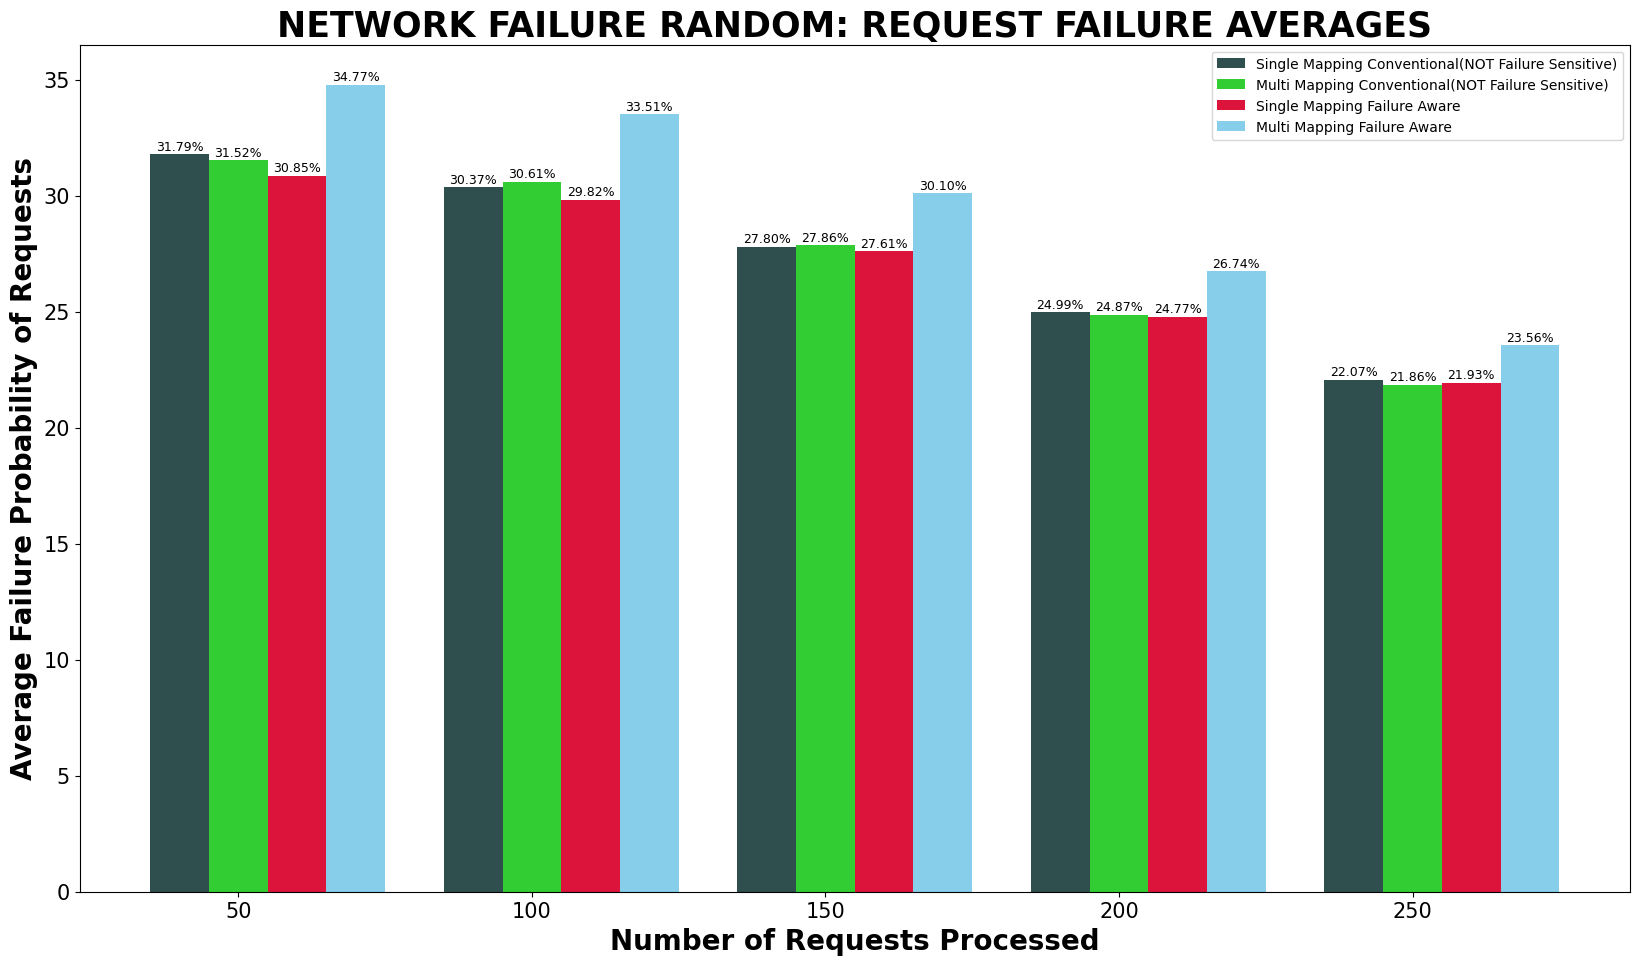
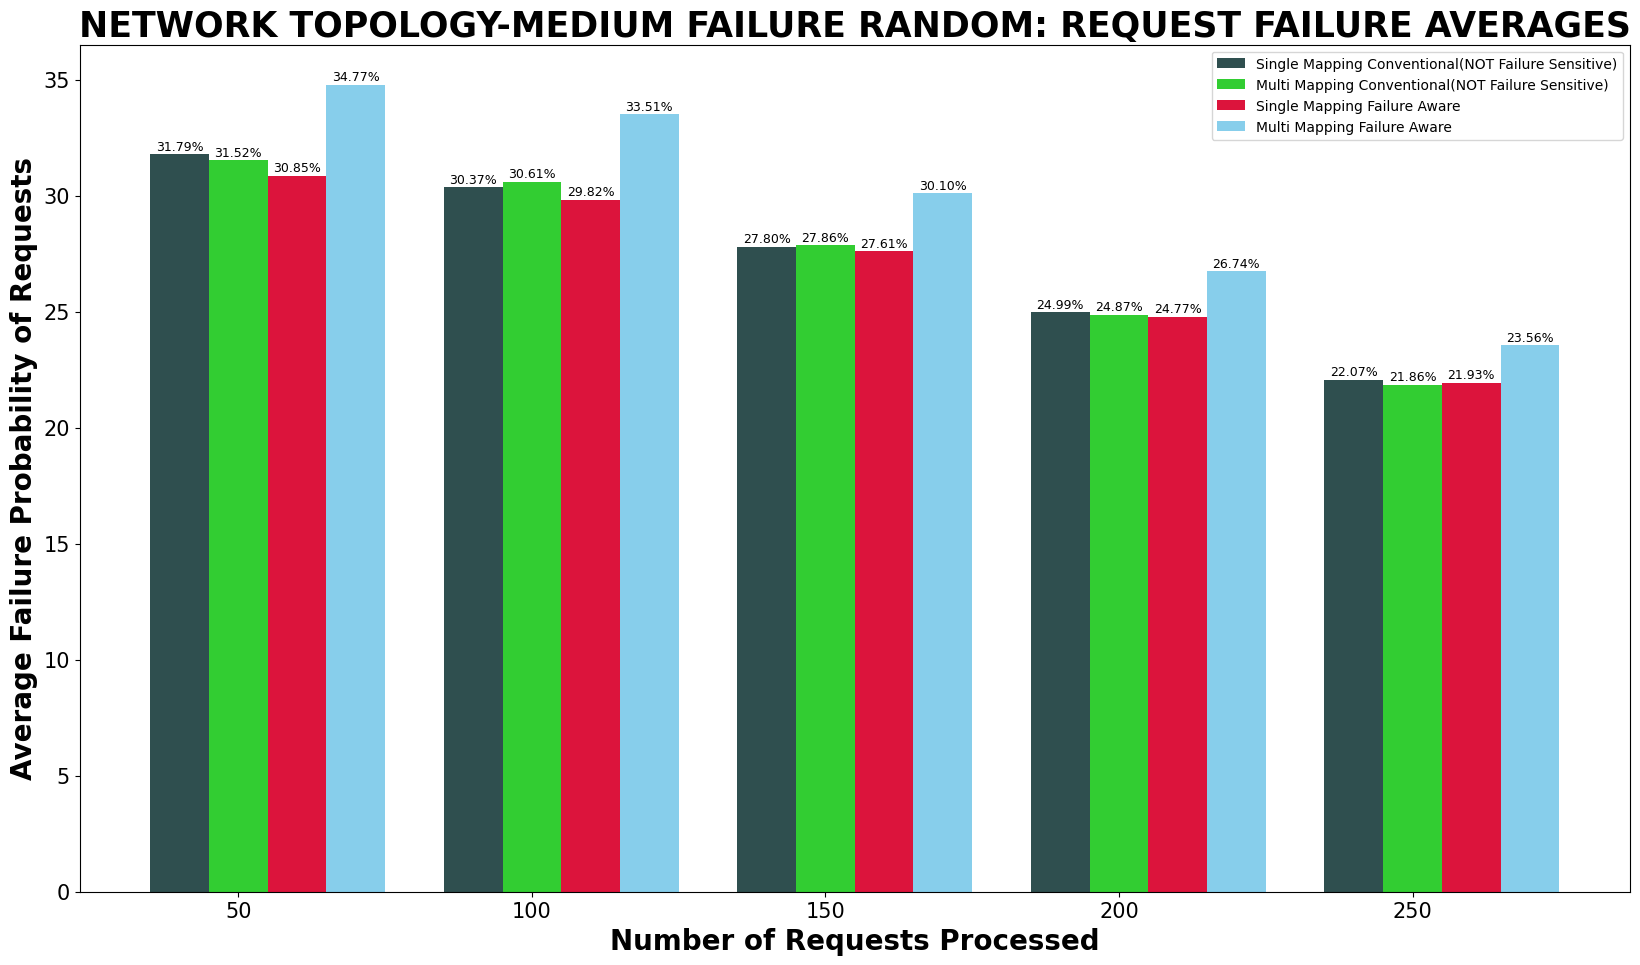
Made some more adjustments to the graphs now for analysis of randomized failure results.

diff --git a/helper_scripts/OutputGraphs.py b/helper_scripts/OutputGraphs.py
@@ -10,39 +10,6 @@ from src.CONSTANTS import AGGREGATE_DATASETS_AVERAGES as ADA
 import matplotlib.pyplot as plt
 
 
-# FUNCTION THAT IS CALLED FROM main.py
-def auto_generate_graphs(dataset, network_topology):
-    x_axis_datasets = [50, 100, 150, 200, 250]
-    y_axis_requests = [50, 100, 150, 200, 250]
-    y_axis_failure = [15, 25, 35, 45, 55]
-    y_axis_delay = [2.0, 4.0, 6.0, 8.0, 10.0]
-    y_axis_cost = [2.0, 4.0, 6.0, 8.0, 10.0]
-
-    SO_PASSED, SO_FAILS, SO_DELAYS, SO_COSTS = gather_data(GLOBAL_SINGLE_OUTPUT_FILE_PATH_ONE)
-    ST_PASSED, ST_FAILS, ST_DELAYS, ST_COSTS = gather_data(GLOBAL_SINGLE_OUTPUT_FILE_PATH_TWO)
-    MO_PASSED, MO_FAILS, MO_DELAYS, MO_COSTS = gather_data(GLOBAL_MULTI_OUTPUT_FILE_PATH_ONE)
-    M2_PASSED, M2_FAILS, M2_DELAYS, M2_COSTS = gather_data(GLOBAL_MULTI_OUTPUT_FILE_PATH_TWO)
-
-    success_name = f'D{dataset}N{network_topology}_success.png'
-    fails_name = f'D{dataset}N{network_topology}_fails.png'
-    delays_name = f'D{dataset}N{network_topology}_delays.png'
-    costs_name = f'D{dataset}N{network_topology}_costs.png'
-
-    create_bar_and_line_graph(SO_PASSED, ST_PASSED, MO_PASSED, M2_PASSED, "NETWORK SATURATION: REQUESTS PASSED",
-                              "Number of Requests Processed", "Number of Successful Requests Passed", x_axis_datasets,
-                              y_axis_requests, '%', success_name)
-    create_bar_and_line_graph(SO_FAILS, ST_FAILS, MO_FAILS, M2_FAILS,
-                              "NETWORK FAILURE RANDOM: REQUEST FAILURE AVERAGES", "Number of Requests Processed",
-                              "Average Failure Probability of Requests", x_axis_datasets, y_axis_failure, '%',
-                              fails_name)
-    create_bar_and_line_graph(SO_DELAYS, ST_DELAYS, MO_DELAYS, M2_DELAYS, "NETWORK DELAYS RANDOM",
-                              "Number of Requests Processed", "Average Delay Times of Requests ms", x_axis_datasets,
-                              y_axis_delay, 'ms', delays_name)
-    create_bar_and_line_graph(SO_COSTS, ST_COSTS, MO_COSTS, M2_COSTS, "NETWORK COSTS RANDOM",
-                              "Number of Requests Processed", "Average Costs of Requests mb", x_axis_datasets,
-                              y_axis_cost, 'mb', costs_name)
-
-
 def gather_all_data_averages(network_topology):
     universal_success_so = []
     universal_success_st = []
@@ -87,12 +54,15 @@ def gather_all_data_averages(network_topology):
     if NETWORK_TOPOLOGY == 1:
         start = 1
         stop = 5
+        top_name = "SMALL"
     if NETWORK_TOPOLOGY == 2:
         start = 6
         stop = 10
+        top_name = "MEDIUM"
     if NETWORK_TOPOLOGY == 3:
         start = 11
         stop = 15
+        top_name = "LARGE"
 
     for ds in range(start, stop+1):
         so_passed, so_fails, so_delays, so_costs = gather_data(os.path.join(outputFolder, f"D{ds}N{network_topology}_SINGLE_PATH_ONE_OUTPUT_DATA_{CREATE_NUM_REQUESTS}_RANDOM.csv"))
@@ -173,10 +143,57 @@ def gather_all_data_averages(network_topology):
     print(f"N{NETWORK_TOPOLOGY}D{start}-{stop}_universal_costs_mo = {universal_costs_mo}")
     print(f"N{NETWORK_TOPOLOGY}D{start}-{stop}_universal_costs_mt = {universal_costs_mt}\n")
 
-    create_bar_and_line_graph(universal_success_so, universal_success_st, universal_success_mo, universal_success_mt, "NETWORK SATURATION: REQUESTS PASSED", "Number of Requests Processed", "Number of Successful Requests Passed", x_axis_datasets, y_axis_requests, '%', success_name)
-    create_bar_and_line_graph(universal_fails_so, universal_fails_st, universal_fails_mo, universal_fails_mt, "NETWORK FAILURE RANDOM: REQUEST FAILURE AVERAGES", "Number of Requests Processed", "Average Failure Probability of Requests", x_axis_datasets, y_axis_failure, '%', fails_name)
-    create_bar_and_line_graph(universal_delays_so, universal_delays_st, universal_delays_mo, universal_delays_mt, "NETWORK DELAYS RANDOM", "Number of Requests Processed", "Average Delay Times of Requests ms", x_axis_datasets, y_axis_delay, 'ms', delays_name)
-    create_bar_and_line_graph(universal_costs_so, universal_costs_st, universal_costs_mo, universal_costs_mt, "NETWORK COSTS RANDOM", "Number of Requests Processed", "Average Costs of Requests mb", x_axis_datasets, y_axis_cost, 'mb', costs_name)
+    create_bar_and_line_graph(universal_success_so, universal_success_st, universal_success_mo, universal_success_mt, f"NETWORK TOPOLOGY-{top_name} SATURATION: REQUESTS PASSED", "Number of Requests Processed", "Number of Successful Requests Passed", x_axis_datasets, y_axis_requests, '%', success_name)
+    create_bar_and_line_graph(universal_fails_so, universal_fails_st, universal_fails_mo, universal_fails_mt, f"NETWORK TOPOLOGY-{top_name} FAILURE RANDOM: REQUEST FAILURE AVERAGES", "Number of Requests Processed", "Average Failure Probability of Requests", x_axis_datasets, y_axis_failure, '%', fails_name)
+    create_bar_and_line_graph(universal_delays_so, universal_delays_st, universal_delays_mo, universal_delays_mt, f"NETWORK TOPOLOGY-{top_name} DELAYS RANDOM", "Number of Requests Processed", "Average Delay Times of Requests ms", x_axis_datasets, y_axis_delay, 'ms', delays_name)
+    create_bar_and_line_graph(universal_costs_so, universal_costs_st, universal_costs_mo, universal_costs_mt, f"NETWORK TOPOLOGY-{top_name} COSTS RANDOM", "Number of Requests Processed", "Average Costs of Requests mb", x_axis_datasets, y_axis_cost, 'mb', costs_name)
+
+
+def average_these(name, divisor, list_one, list_two, list_three):
+    output = []
+    for i in range(len(list_one)):
+        a = list_one[i]
+        b = list_two[i]
+        c = list_three[i]
+
+        temp = (a + b + c) / 3
+        temp = f"{temp:.2f}"
+        output.append(float(temp))
+
+    print(output)
+
+
+# FUNCTION THAT IS CALLED FROM main.py
+def auto_generate_graphs(dataset, network_topology):
+    x_axis_datasets = [50, 100, 150, 200, 250]
+    y_axis_requests = [50, 100, 150, 200, 250]
+    y_axis_failure = [15, 25, 35, 45, 55]
+    y_axis_delay = [2.0, 4.0, 6.0, 8.0, 10.0]
+    y_axis_cost = [2.0, 4.0, 6.0, 8.0, 10.0]
+
+    SO_PASSED, SO_FAILS, SO_DELAYS, SO_COSTS = gather_data(GLOBAL_SINGLE_OUTPUT_FILE_PATH_ONE)
+    ST_PASSED, ST_FAILS, ST_DELAYS, ST_COSTS = gather_data(GLOBAL_SINGLE_OUTPUT_FILE_PATH_TWO)
+    MO_PASSED, MO_FAILS, MO_DELAYS, MO_COSTS = gather_data(GLOBAL_MULTI_OUTPUT_FILE_PATH_ONE)
+    M2_PASSED, M2_FAILS, M2_DELAYS, M2_COSTS = gather_data(GLOBAL_MULTI_OUTPUT_FILE_PATH_TWO)
+
+    success_name = f'D{dataset}N{network_topology}_success.png'
+    fails_name = f'D{dataset}N{network_topology}_fails.png'
+    delays_name = f'D{dataset}N{network_topology}_delays.png'
+    costs_name = f'D{dataset}N{network_topology}_costs.png'
+
+    create_bar_and_line_graph(SO_PASSED, ST_PASSED, MO_PASSED, M2_PASSED, "NETWORK SATURATION: REQUESTS PASSED",
+                              "Number of Requests Processed", "Number of Successful Requests Passed", x_axis_datasets,
+                              y_axis_requests, '%', success_name)
+    create_bar_and_line_graph(SO_FAILS, ST_FAILS, MO_FAILS, M2_FAILS,
+                              "NETWORK FAILURE RANDOM: REQUEST FAILURE AVERAGES", "Number of Requests Processed",
+                              "Average Failure Probability of Requests", x_axis_datasets, y_axis_failure, '%',
+                              fails_name)
+    create_bar_and_line_graph(SO_DELAYS, ST_DELAYS, MO_DELAYS, M2_DELAYS, "NETWORK DELAYS RANDOM",
+                              "Number of Requests Processed", "Average Delay Times of Requests ms", x_axis_datasets,
+                              y_axis_delay, 'ms', delays_name)
+    create_bar_and_line_graph(SO_COSTS, ST_COSTS, MO_COSTS, M2_COSTS, "NETWORK COSTS RANDOM",
+                              "Number of Requests Processed", "Average Costs of Requests mb", x_axis_datasets,
+                              y_axis_cost, 'mb', costs_name)
 
 
 def gather_data(filepath):
@@ -320,6 +337,7 @@ def create_bar_and_line_graph(single_one, single_two, multi_one, multi_two, titl
     manager.full_screen_toggle()
     plt.savefig(os.path.join(specific_graphs_folder, name), bbox_inches='tight', dpi=100)
 
+
 ################### TUTORIAL GRAPH PLZ DONT DELETE MAJOR PAIN IN THE ASS TO LOOKUP ###########################
 # def tutorial_graph():
 #     # X-AXIS'
@@ -362,6 +380,9 @@ def create_bar_and_line_graph(single_one, single_two, multi_one, multi_two, titl
 
 
 if __name__ == '__main__':
+    gather_all_data_averages(NETWORK_TOPOLOGY)
+
+    # average_these("galactic_average_success_so", 5, [92, 95, 93, 88, 83], [93, 88, 79, 71, 63], [84, 68, 50, 39, 32])
 
     # STUFF FOR INDIVIDUAL DATASET GRAPHS
     # start, stop = 0, 0
@@ -375,8 +396,6 @@ if __name__ == '__main__':
     #
     # for i in range(start, stop + 1):
     #     auto_generate_graphs(i, NETWORK_TOPOLOGY)
-
-    gather_all_data_averages(NETWORK_TOPOLOGY)
 
     # x_axis_datasets = [50, 100, 150, 200, 250]
     # y_axis_requests = [50, 100, 150, 200, 250]

diff --git a/src/CONSTANTS.py b/src/CONSTANTS.py
@@ -35,8 +35,8 @@ MAX_LINKS_PER_NODE = 4
 CREATE_NUM_REQUESTS = 250    # NUMBER OF NETWORK REQUESTS IS STATIC FOR ALL DATASETS AND TOPOLOGIES
 
 # VERSION CONTROL
-DATASET = 11
-NETWORK_TOPOLOGY = 3
+DATASET = 1
+NETWORK_TOPOLOGY = 1
 
 # INPUT FILE PATHS
 NodeInputData = os.path.join(resourcesFolder, f"N{NETWORK_TOPOLOGY}_NodeInputData.csv")
